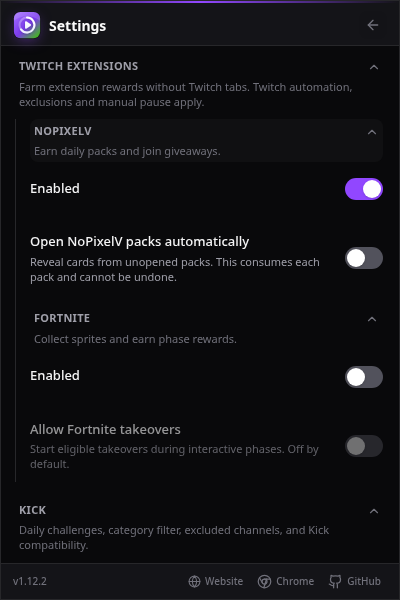
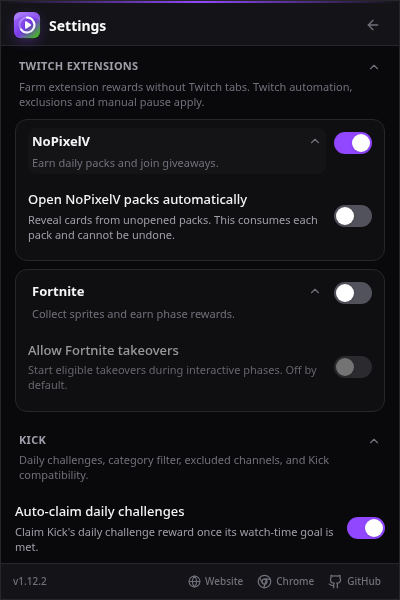
fix(popup): place provider switches in compact group headers

diff --git a/packages/popup-ui/src/twitchExtensions.tsx b/packages/popup-ui/src/twitchExtensions.tsx
@@ -1,7 +1,7 @@
 import React, { useState } from "react";
 import { AnimatePresence, motion } from "motion/react";
 import { Gift, Sparkles } from "lucide-react";
-import { SectionHeader } from "./primitives";
+import { SectionHeader, Toggle } from "./primitives";
 import type { ExtensionSettings, TwitchExtensionProviderId, TwitchExtensionSummary } from "@lurkloot/shared/models";
 import type { PopupAdapter } from "./types";
 import { useT } from "./context";
@@ -105,11 +105,10 @@ export function TwitchExtensionSettings({ settings, onChange, onTakeoversChange,
   const normalizedQuery = query.trim().toLocaleLowerCase();
   const groupMatch = !normalizedQuery || `${t("extensionSettingsTitle")} ${t("extensionSettingsHint")}`.toLocaleLowerCase().includes(normalizedQuery);
   return <SettingsSection id="twitch.extensions" title={t("extensionSettingsTitle")} description={t("extensionSettingsHint")} forceExpanded={Boolean(normalizedQuery)}>
-    <div className="space-y-3 border-l border-zinc-200 pl-3 dark:border-zinc-800">
-      {providers.filter(provider => groupMatch || `${provider.name} ${t(provider.hint)} ${t(provider.id === "nopixel" ? "extensionAutoOpenPacksTitle" : "extensionTakeoversTitle")} ${t(provider.id === "nopixel" ? "extensionAutoOpenPacksHint" : "extensionTakeoversHint")}`.toLocaleLowerCase().includes(normalizedQuery)).map(provider => <SettingsSection key={provider.id} id={`twitch.extensions.${provider.id}`} title={provider.name} description={t(provider.hint)} forceExpanded={Boolean(normalizedQuery)}>
-        <SettingRow title={t("enabled")} description="" checked={settings.twitchExtensions[provider.id].enabled} disabled={pending !== undefined} onChange={enabled => change(provider.id, enabled)} />
+    <div className="space-y-2">
+      {providers.filter(provider => groupMatch || `${provider.name} ${t(provider.hint)} ${t(provider.id === "nopixel" ? "extensionAutoOpenPacksTitle" : "extensionTakeoversTitle")} ${t(provider.id === "nopixel" ? "extensionAutoOpenPacksHint" : "extensionTakeoversHint")}`.toLocaleLowerCase().includes(normalizedQuery)).map(provider => <div key={provider.id} className="rounded-xl border border-zinc-200 bg-zinc-50/60 px-2.5 py-2 dark:border-zinc-800 dark:bg-zinc-900/40"><SettingsSection id={`twitch.extensions.${provider.id}`} title={provider.name} description={t(provider.hint)} headerAction={<Toggle label={provider.name} checked={settings.twitchExtensions[provider.id].enabled} disabled={pending !== undefined} onChange={enabled => change(provider.id, enabled)} />} forceExpanded={Boolean(normalizedQuery)}>
         {provider.id === "nopixel" ? <SettingRow title={t("extensionAutoOpenPacksTitle")} description={t("extensionAutoOpenPacksHint")} checked={settings.twitchExtensions.nopixel.autoOpenPacks} disabled={pending !== undefined || !settings.twitchExtensions.nopixel.enabled} onChange={changeAutoOpenPacks} /> : <SettingRow title={t("extensionTakeoversTitle")} description={t("extensionTakeoversHint")} checked={settings.twitchExtensions.fortnite.allowTakeovers} disabled={pending !== undefined || !settings.twitchExtensions.fortnite.enabled} onChange={changeTakeovers} />}
-      </SettingsSection>)}
+      </SettingsSection></div>)}
     </div>
     {failure ? <p role="status" className="text-[11px] text-amber-700 dark:text-amber-400">{t(failure)}</p> : null}
   </SettingsSection>;

diff --git a/packages/popup-ui/src/settingsControls.tsx b/packages/popup-ui/src/settingsControls.tsx
@@ -8,13 +8,14 @@ import {
 import { usePopupRuntime, useT } from "./context";
 import { SearchBox, Toggle, cn } from "./primitives";
 
-export function SettingsSection({ id, title, description, badge, forceExpanded, children }: {
+export function SettingsSection({ id, title, description, badge, headerAction, forceExpanded, children }: {
   // Stable, locale-independent identity. Collapse state is keyed by this, not by
   // the translated title, so changing language does not reset the accordion.
   id: string;
   title: string;
   description?: string;
   badge?: React.ReactNode;
+  headerAction?: React.ReactNode;
   // While searching, sections holding matches are opened regardless of the
   // persisted state, and the persisted state is left untouched.
   forceExpanded?: boolean;
@@ -51,22 +52,23 @@ export function SettingsSection({ id, title, description, badge, forceExpanded, 
 
   return (
     <section id={`settings-section-${id}`} className="scroll-mt-2">
-      <header className="mb-1.5 px-0.5">
+      <header className="mb-1.5 flex items-start gap-2 px-0.5">
         <button
           type="button"
           aria-expanded={expanded}
           onClick={toggleCollapsed}
-          className="flex w-full items-start justify-between gap-3 rounded-lg px-1 py-1 text-left outline-none transition-colors hover:bg-zinc-50 focus-visible:ring-2 focus-visible:ring-[var(--accent-ring)] dark:hover:bg-zinc-900/70"
+          className="flex min-w-0 flex-1 items-start justify-between gap-3 rounded-lg px-1 py-1 text-left outline-none transition-colors hover:bg-zinc-50 focus-visible:ring-2 focus-visible:ring-[var(--accent-ring)] dark:hover:bg-zinc-900/70"
         >
           <span className="min-w-0">
             <span className="flex items-center gap-1.5">
-              <span className="text-[11px] font-semibold uppercase tracking-wide text-zinc-500 dark:text-zinc-400">{title}</span>
+              <span className={headerAction ? "text-[13px] font-semibold text-zinc-800 dark:text-zinc-100" : "text-[11px] font-semibold uppercase tracking-wide text-zinc-500 dark:text-zinc-400"}>{title}</span>
               {badge}
             </span>
             {description ? <span className="mt-1 block text-[11px] leading-snug text-zinc-400 dark:text-zinc-500">{description}</span> : null}
           </span>
           <ChevronDown size={14} className={cn("mt-0.5 shrink-0 text-zinc-400 transition-transform dark:text-zinc-500", expanded && "rotate-180")} />
         </button>
+        {headerAction ? <div className="shrink-0 pt-1">{headerAction}</div> : null}
       </header>
       {expanded ? <div className="space-y-3 px-0.5">{children}</div> : null}
     </section>

diff --git a/docs/twitch-extensions/foundation.md b/docs/twitch-extensions/foundation.md
@@ -42,7 +42,9 @@ validation instructions are in
   rejects those keys. Required browser grants are unchanged; both vendor
   backends are optional. Settings places Twitch Extensions immediately after
   Twitch, with independent NoPixelV/Fortnite subgroups containing their own
-  toggles. Group descriptions remain visible while collapsed, and search opens
+  toggles. Provider enable switches sit in the group headers and remain
+  available while collapsed; only provider-specific automation options appear
+  inside each compact card. Group descriptions remain visible while collapsed, and search opens
   matching providers without changing stored collapse preferences.
 - The NoPixel 1.1.2 driver uses Bearer auth, an initialization ping, channel
   setup, daily-watchtime reads and giveaway join/refetch. Joins are reported
